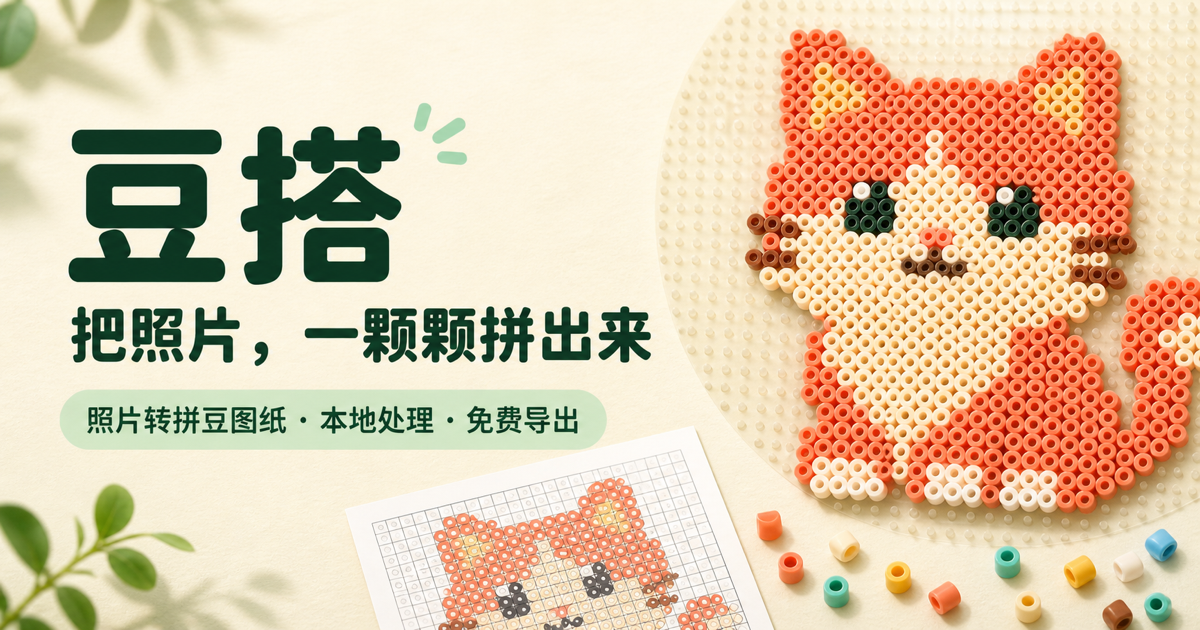
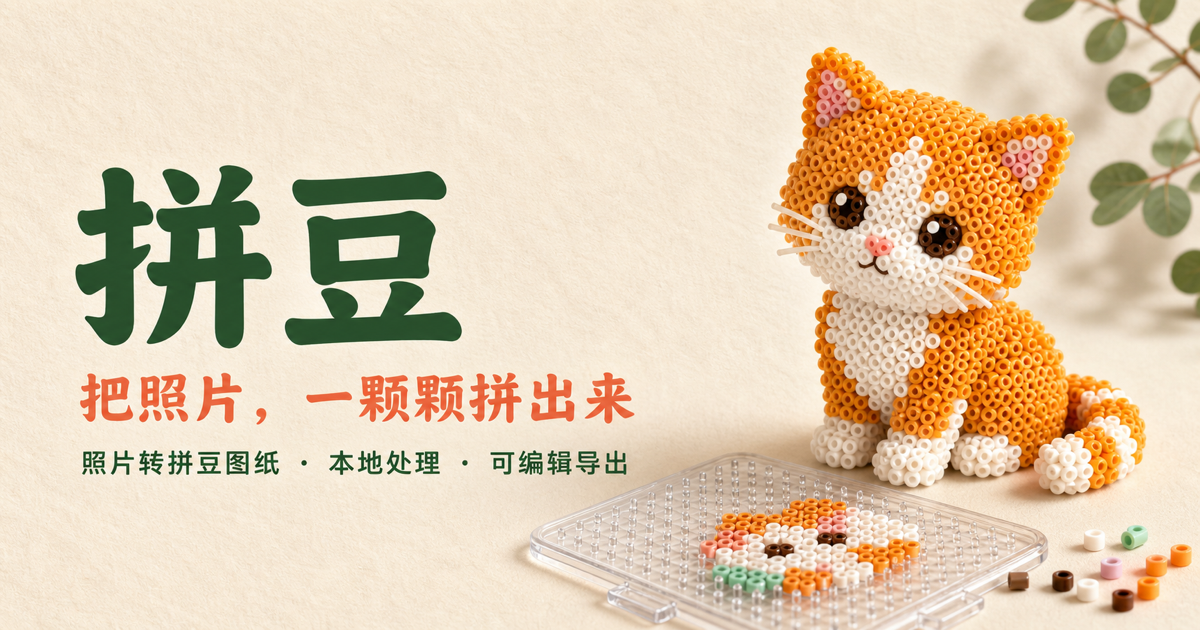
refactor: rename product to pindou

diff --git a/app/page.tsx b/app/page.tsx
@@ -47,7 +47,8 @@ const INITIAL_SETTINGS: EngineSettings = {
   cropY: 50,
 };
 const INITIAL_TRANSFORM: Transform = { rotation: 0, flipX: false, flipY: false };
-const STORAGE_KEY = "doudap-project-v2";
+const STORAGE_KEY = "pindou-project-v2";
+const LEGACY_STORAGE_KEY = "doudap-project-v2";
 const DEMO_PATTERN = [
   "............", "...PP..PP...", "..PPPPPPPP..", ".PPWWPPWWPP.", ".PPBKPPKBPP.",
   ".PPPPPPPPPP.", "..PPWPPWPP..", "...PPRRPP...", "....PPPP....", "....GPPG....",
@@ -193,7 +194,7 @@ export default function Home() {
     restoredRef.current = true;
     const timer = window.setTimeout(() => {
       try {
-        const saved = window.localStorage.getItem(STORAGE_KEY);
+      const saved = window.localStorage.getItem(STORAGE_KEY) ?? window.localStorage.getItem(LEGACY_STORAGE_KEY);
         if (!saved) return;
         const project = JSON.parse(saved) as Record<string, unknown>;
         const savedGrid = sanitizeGrid(project.grid);
@@ -222,7 +223,7 @@ export default function Home() {
     const timer = window.setTimeout(() => {
       window.localStorage.setItem(STORAGE_KEY, JSON.stringify({
         version: 2,
-        name: fileName || "豆搭工程",
+        name: fileName || "拼豆工程",
         savedAt: new Date().toISOString(),
         settings,
         transform,
@@ -495,7 +496,7 @@ export default function Home() {
       setFileName(typeof project.name === "string" ? project.name : file.name);
       setRestoreNote("工程已导入；可继续编辑、施工与导出。");
     } catch {
-      window.alert("工程文件无法读取，请确认它由豆搭导出且内容完整。");
+      window.alert("工程文件无法读取，请确认它由拼豆导出且内容完整。");
     }
   };
 
@@ -527,7 +528,7 @@ export default function Home() {
       setFileName(file.name);
       setRestoreNote("矩阵 CSV 已导入。");
     } catch {
-      window.alert("矩阵 CSV 无法读取，请使用豆搭导出的矩阵 CSV。");
+      window.alert("矩阵 CSV 无法读取，请使用拼豆导出的矩阵 CSV。");
     }
   };
 
@@ -587,9 +588,9 @@ export default function Home() {
   return (
     <main className={"app-shell" + (focusMode ? " is-focus" : "")}>
       <header className="topbar">
-        <button className="brand-mark" type="button" aria-label="豆搭首页" onClick={() => window.scrollTo({ top: 0, behavior: "smooth" })}>
+        <button className="brand-mark" type="button" aria-label="拼豆首页" onClick={() => window.scrollTo({ top: 0, behavior: "smooth" })}>
           <span className="brand-beads" aria-hidden="true"><i /><i /><i /><i /></span>
-          <span><b>豆搭</b><small>PERLER STUDIO</small></span>
+          <span><b>拼豆</b><small>PERLER STUDIO</small></span>
         </button>
         <div className="top-actions">
           <span className="privacy-note"><i />图片只在本机处理</span>
@@ -606,7 +607,7 @@ export default function Home() {
           <div className="hero-copy">
             <span className="eyebrow"><i />从照片到可施工图纸</span>
             <h1>把你想留住的<br />变成一颗颗<em>拼豆</em></h1>
-            <p>上传照片，豆搭会在浏览器里完成取色、去背景与色号匹配。你可以逐格修正、按库存限色、保存工程，再导出带坐标和分板线的制作图。</p>
+            <p>上传照片，拼豆会在浏览器里完成取色、去背景与色号匹配。你可以逐格修正、按库存限色、保存工程，再导出带坐标和分板线的制作图。</p>
             <div className="feature-line"><span>291 色 · 5 品牌</span><span>透明 PNG 友好</span><span>工程自动恢复</span><span>本地处理</span></div>
           </div>
           <div className="upload-stage">

diff --git a/app/exporters.ts b/app/exporters.ts
@@ -30,7 +30,7 @@ export function exportBomCsv(grid: Grid, brand: Brand) {
     ...stats.map((item) => [brand, item.color.codes[brand], item.color.name, item.color.hex, item.count, Math.ceil(item.count * 1.08)].map(csvCell).join(",")),
     ["", "", "合计", "", total, Math.ceil(total * 1.08)].map(csvCell).join(","),
   ];
-  downloadBlob(new Blob(["\uFEFF" + rows.join("\n")], { type: "text/csv;charset=utf-8" }), "豆搭-" + brand + "-采购清单.csv");
+  downloadBlob(new Blob(["\uFEFF" + rows.join("\n")], { type: "text/csv;charset=utf-8" }), "拼豆-" + brand + "-采购清单.csv");
 }
 
 export function exportMatrixCsv(grid: Grid, brand: Brand) {
@@ -46,7 +46,7 @@ export function exportMatrixCsv(grid: Grid, brand: Brand) {
       cell.external || !cell.color ? "empty" : "bead",
     ].map(csvCell).join(","));
   }));
-  downloadBlob(new Blob(["\uFEFF" + rows.join("\n")], { type: "text/csv;charset=utf-8" }), "豆搭-" + grid[0].length + "x" + grid.length + "-矩阵.csv");
+  downloadBlob(new Blob(["\uFEFF" + rows.join("\n")], { type: "text/csv;charset=utf-8" }), "拼豆-" + grid[0].length + "x" + grid.length + "-矩阵.csv");
 }
 
 export function exportProjectJson(
@@ -62,10 +62,10 @@ export function exportProjectJson(
   },
 ) {
   const project = {
-    app: "豆搭",
+    app: "拼豆",
     version: 2,
     exportedAt: new Date().toISOString(),
-    name: options.name || "豆搭工程",
+    name: options.name || "拼豆工程",
     settings: options.settings,
     transform: options.transform,
     brand: options.brand,
@@ -74,7 +74,7 @@ export function exportProjectJson(
     focusSeconds: options.focusSeconds,
     grid: serializableGrid(grid),
   };
-  downloadBlob(new Blob([JSON.stringify(project, null, 2)], { type: "application/json" }), "豆搭-" + grid[0].length + "x" + grid.length + "-工程.json");
+  downloadBlob(new Blob([JSON.stringify(project, null, 2)], { type: "application/json" }), "拼豆-" + grid[0].length + "x" + grid.length + "-工程.json");
 }
 
 export function exportGuidePng(grid: Grid, brand: Brand) {
@@ -100,7 +100,7 @@ export function exportGuidePng(grid: Grid, brand: Brand) {
   context.fillRect(0, 0, width, height);
   context.fillStyle = "#183d31";
   context.font = "700 24px Arial, sans-serif";
-  context.fillText("豆搭制作图 · " + cols + " × " + rows, left, 32);
+  context.fillText("拼豆制作图 · " + cols + " × " + rows, left, 32);
   context.fillStyle = "#6b756f";
   context.font = "12px Arial, sans-serif";
   context.fillText(brand + " 色号 · " + stats.length + " 色 · " + total + " 颗 · 粗线每 5 格，深线每 29 格", left, 52);
@@ -171,6 +171,6 @@ export function exportGuidePng(grid: Grid, brand: Brand) {
     context.fillText(item.count + " 颗", x + Math.min(columnWidth - 55, 215), y);
   });
   canvas.toBlob((blob) => {
-    if (blob) downloadBlob(blob, "豆搭-" + cols + "x" + rows + "-" + brand + "-制作图.png");
+    if (blob) downloadBlob(blob, "拼豆-" + cols + "x" + rows + "-" + brand + "-制作图.png");
   }, "image/png");
 }

diff --git a/app/layout.tsx b/app/layout.tsx
@@ -18,7 +18,7 @@ export async function generateMetadata(): Promise<Metadata> {
   const host = incoming.get("x-forwarded-host") ?? incoming.get("host") ?? "localhost:3000";
   const protocol = incoming.get("x-forwarded-proto") ?? (host.startsWith("localhost") ? "http" : "https");
   const origin = `${protocol}://${host}`;
-  const title = "豆搭 · 照片转拼豆图纸";
+  const title = "拼豆";
   const description = "上传照片，生成可编辑、可导出并匹配实体品牌色号的拼豆制作图纸。";
   const image = `${origin}/og.png`;
   return {

diff --git a/worker/index.ts b/worker/index.ts
@@ -1,4 +1,4 @@
-/** Cloudflare Worker entry point for the 豆搭 site. */
+/** Cloudflare Worker entry point for the 拼豆 site. */
 import { handleImageOptimization, DEFAULT_DEVICE_SIZES, DEFAULT_IMAGE_SIZES } from "vinext/server/image-optimization";
 import handler from "vinext/server/app-router-entry";
 

diff --git a/README.md b/README.md
@@ -1,4 +1,4 @@
-# 豆搭 · 照片转拼豆图纸
+# 拼豆
 
 一个可直接上线的浏览器拼豆工作台，面向拼豆玩家、手作门店和定制卖家。原图只在用户浏览器中处理，无需登录，也不经过服务端。
 
